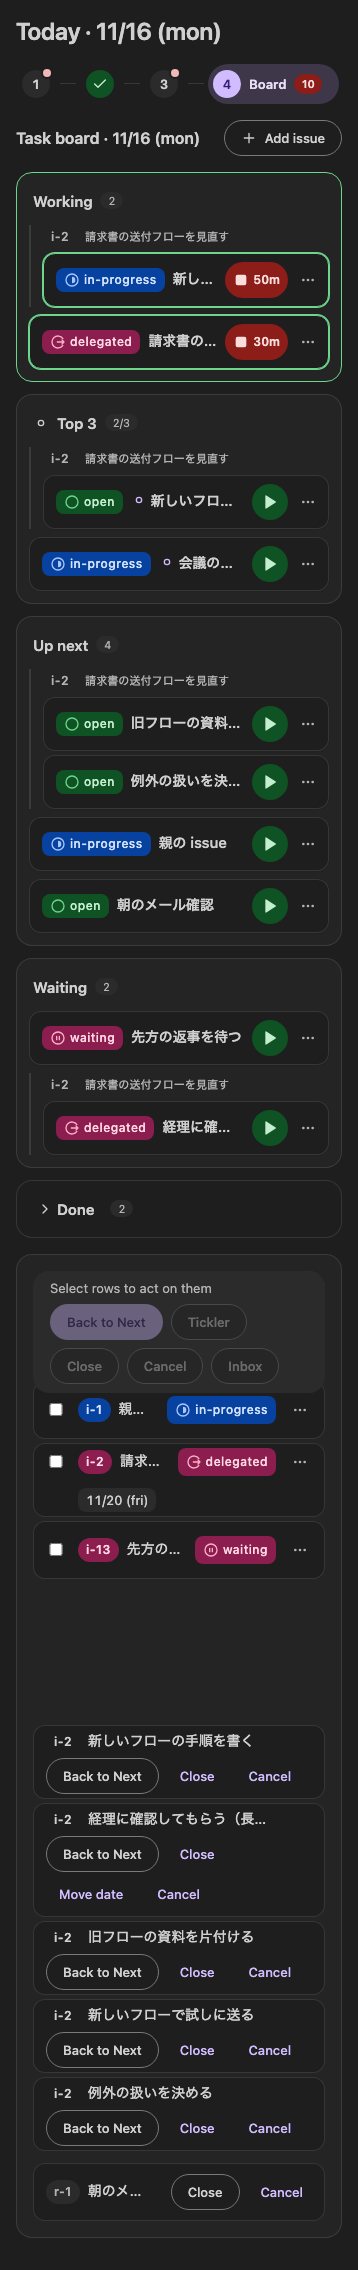
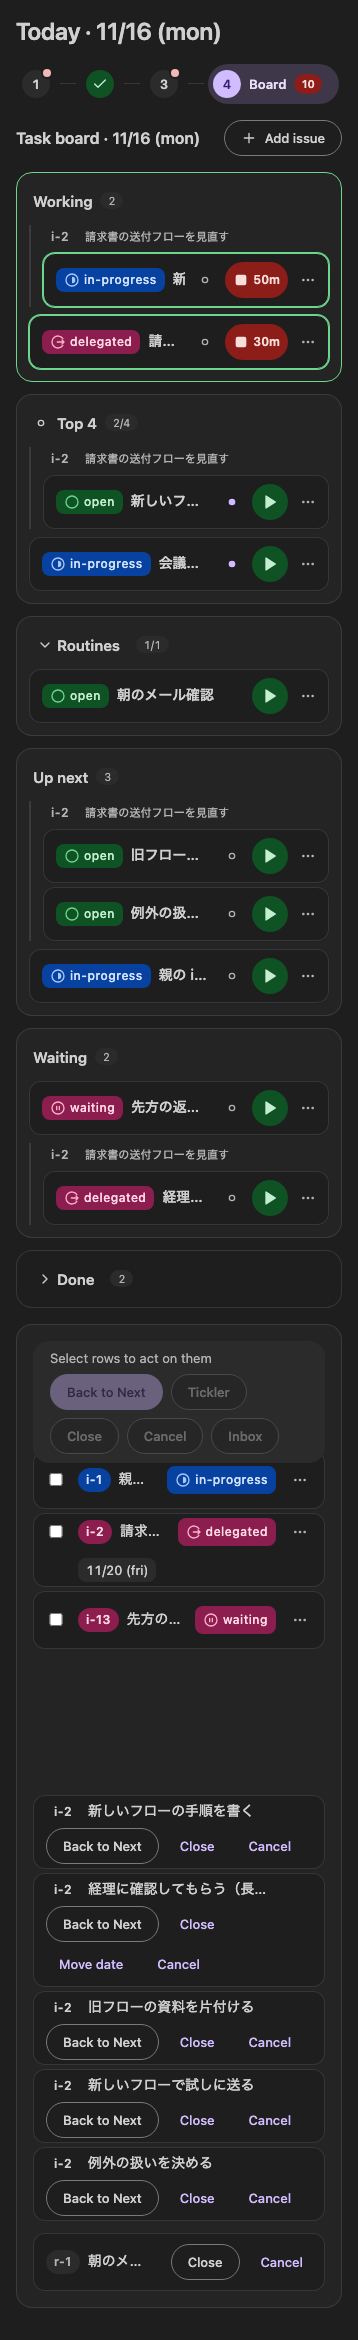
chore(harness): main の Top 4 変更に合わせて体験定義書の画面例を再生成する

diff --git a/pkm-guide/user-experience.html b/pkm-guide/user-experience.html
@@ -395,7 +395,7 @@ article > p, article > ul, article > ol, article > blockquote { max-width: var(-
 <ol>
 <li>リボンの「Open Today」（<a href="#surfaces-ribbon-md">リボン</a>）か、左サイドバーの Today（<a href="#surfaces-task-sidebar-md">Tasks サイドバー</a>）を押す。Today は一覧ペインに開く（<a href="#surfaces-layout-panes-md">一覧ペインとノートペイン</a>）</li>
 <li><a href="#surfaces-task-today-md">Today</a> の段階を順に片付ける: Calendar → Previous boards → Pick → Board。今日が Calendar の日の issue と今日の routine は、自動でボードに載っている。Pick で Next から今日やるものを選ぶ</li>
-<li><a href="#surfaces-task-board-md">task board</a> で、今日の最重要を 3 件まで Top 3 に入れ、Up next を並べる。並びは前の日から引き継ぐ。今日が Calendar の日のサブイシューもカードとして載る</li>
+<li><a href="#surfaces-task-board-md">task board</a> で、今日の最重要を 4 件まで Top 4 に入れ、Up next を並べる。並びは前の日から引き継ぐ。今日が Calendar の日のサブイシューもカードとして載る</li>
 <li>AI と相談するときは、task-coach が MCP で状況を読み、負荷（見積もりの合計と使える時間）を見て、載せすぎを減らす（<a href="#surfaces-task-mcp-md">MCP と task-coach</a>）</li>
 </ol>
 <h3 id="jobs-task-plan-day-md--関わる概念">関わる概念</h3>
@@ -789,10 +789,11 @@ ADR へのリンク。
 </ul>
 <h3 id="surfaces-task-board-md--今の振る舞い">今の振る舞い</h3>
 <ul>
-<li>1 列のボード。欄は上から Working（タイマーが動いているもの）・Top 3（★ 今日の最重要。3 件まで）・Up next（残り。in-progress も open もここ）・Waiting（waiting / delegated。件数を出して開いたまま）・Done（片付いたもの。たたむ）。欄は status・タイマー・★ から自動で決まる</li>
+<li>1 列のボード。欄は上から Working（タイマーが動いているもの）・Top 4（★ 今日の最重要。4 件まで）・Routines（routine だけ。issue・サブと混ぜない。開いたまま始め、見出しで開閉。すべて Close / Cancel したら欄ごと隠す。★ は付けられない）・Up next（残り。in-progress も open もここ）・Waiting（waiting / delegated。件数を出して開いたまま）・Done（片付いたもの。たたむ）。欄は status・タイマー・★ から自動で決まる</li>
 <li>カードは issue・サブイシュー・routine の 1 件ごと。1 行に status のバッジ（メニュー。<code>delegated…</code> も選べる）・題・再生 / 停止・<code>···</code> のメニューだけを出す。ID はマウスを乗せると出る</li>
 <li>同じ欄で隣り合った、同じ issue のサブイシューは、親の ID と題の見出しの下にまとまる（見出しを押すと親を開く）。親のカードは、親自身が今日の Calendar の日のときか、自分で載せたときだけ載る</li>
-<li><code>···</code> のメニュー: Add to Top 3 / Remove from Top 3、Move up / Move down（同じ欄の中）、Open、Remove from board。PC では Top 3 と Up next の間と中をドラッグで並べ替えられ、Top 3 に落とすと ★ が付く。並びは翌日以降にも引き継ぎ、★ はその日だけ</li>
+<li>星ボタン: 済み以外のカードの右（再生ボタンの前）。押すと Top 4 に入れ / 外す（付いているときは塗る）。4 件あるときは入れずに知らせる</li>
+<li><code>···</code> のメニュー: Add to Top 4 / Remove from Top 4、Move up / Move down（同じ欄の中）、Open、Remove from board。PC では Top 4 と Up next の間と中をドラッグで並べ替えられ、Top 4 に落とすと ★ が付く。並びは翌日以降にも引き継ぎ、★ はその日だけ</li>
 <li>Add issue: issue を検索して載せるか、新しく作って載せる。今日が Calendar の日でないサブイシューも <code>i-12 › 題</code> の形で候補に出る。載せても日付は書かない（ADR-0152）</li>
 <li>status を変えると、右下に「N件のステータスが変更されました。 元に戻す ›」が 5 秒出て、まとめて取り消せる</li>
 <li>未完了の一覧: issue は Back to Next、Tickler、Move date（Calendar の日を持つものだけ）、Close、Cancel、Inbox。サブイシューは Back to Next、Close、Move date、Cancel（Tickler と Inbox はない）。持ち越したものはボードに残るが未完了に数えない</li>
@@ -1464,11 +1465,11 @@ ADR へのリンク。
 <h3 id="concepts-task-board-lane-md--目的">目的</h3>
 <p>その日のボードを、今の状態と大事さで自然に分け、次にどれに手を付けるかを迷わずに決める。</p>
 <h3 id="concepts-task-board-lane-md--状態">状態</h3>
-<p>欄は保存しない。status・タイマー・★ から決まる: Working（タイマーが動いているもの）→ Done（closed / canceled / someday、結果のある routine、持ち越したもの）→ Waiting（waiting / delegated）→ Top 3（★ を付けたもの。3 件まで）→ Up next（残り）。★ はその日だけの記録、並びは翌日以降にも引き継ぐ記録で、どちらもボードの操作ログ（<code>star</code>、<code>order</code>）に残る。</p>
+<p>欄は保存しない。status・タイマー・★ から決まる: Routines（routine は常にここ。issue・サブと混ぜない）→ Working（タイマーが動いている issue・サブ）→ Done（closed / canceled / someday、持ち越したもの）→ Waiting（waiting / delegated）→ Top 4（★ を付けたもの。4 件まで）→ Up next（残り）。★ はその日だけの記録、並びは翌日以降にも引き継ぐ記録で、どちらもボードの操作ログ（<code>star</code>、<code>order</code>）に残る。</p>
 <h3 id="concepts-task-board-lane-md--操作">操作</h3>
-<p>★ を付ける・外す（カードのメニュー、Top 3 へのドラッグ）、並べ替える（Top 3 と Up next のドラッグ、Move up / Move down）、タイマーを動かす（Working に移る）。</p>
+<p>★ を付ける・外す（カードのメニュー、Top 4 へのドラッグ）、並べ替える（Top 4 と Up next のドラッグ、Move up / Move down）、タイマーを動かす（Working に移る）。</p>
 <h3 id="concepts-task-board-lane-md--使い方の筋道">使い方の筋道</h3>
-<p>朝、今日の最重要を 3 件まで Top 3 に入れ、Up next を並べる。手を付けるとタイマーで Working に移り、止めると元の欄に戻る。AI や人に任せて待つものは waiting / delegated にして Waiting に出す。同じ issue のサブが隣り合うと、親の見出しの下にまとまる。</p>
+<p>朝、今日の最重要を 4 件まで Top 4 に入れ、Up next を並べる。手を付けるとタイマーで Working に移り、止めると元の欄に戻る。AI や人に任せて待つものは waiting / delegated にして Waiting に出す。同じ issue のサブが隣り合うと、親の見出しの下にまとまる。</p>
 <h3 id="concepts-task-board-lane-md--根拠">根拠</h3>
 <p><a href="https://github.com/yamayu-i/pkm-kit/blob/main/.kit/src/docs/adr/0137-board-lanes-and-sub-issue-cards.md">ADR-0137</a>、<a href="https://github.com/yamayu-i/pkm-kit/blob/main/.kit/src/docs/adr/0114-board-manual-order.md">ADR-0114</a></p>
 <footer><a href="#contents">目次へ</a> 前: <a href="#concepts-sync-snapshot-md">同期と snapshot</a> 次: <a href="#concepts-task-board-md">task board</a> · <a href="https://github.com/yamayu-i/pkm-kit/blob/main/.kit/harness/docs/product/concepts/task-board-lane.md">原本</a></footer></article>
